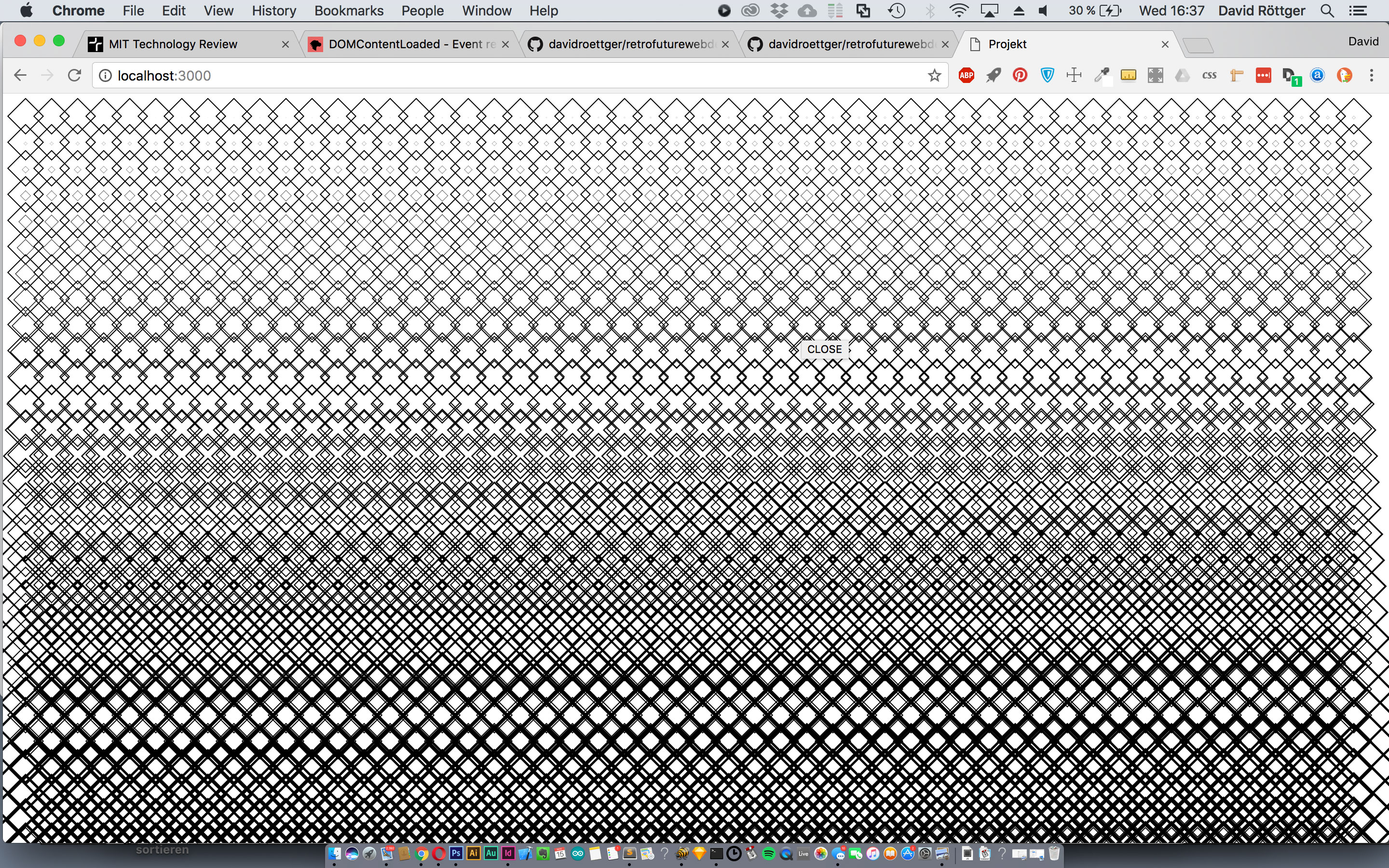
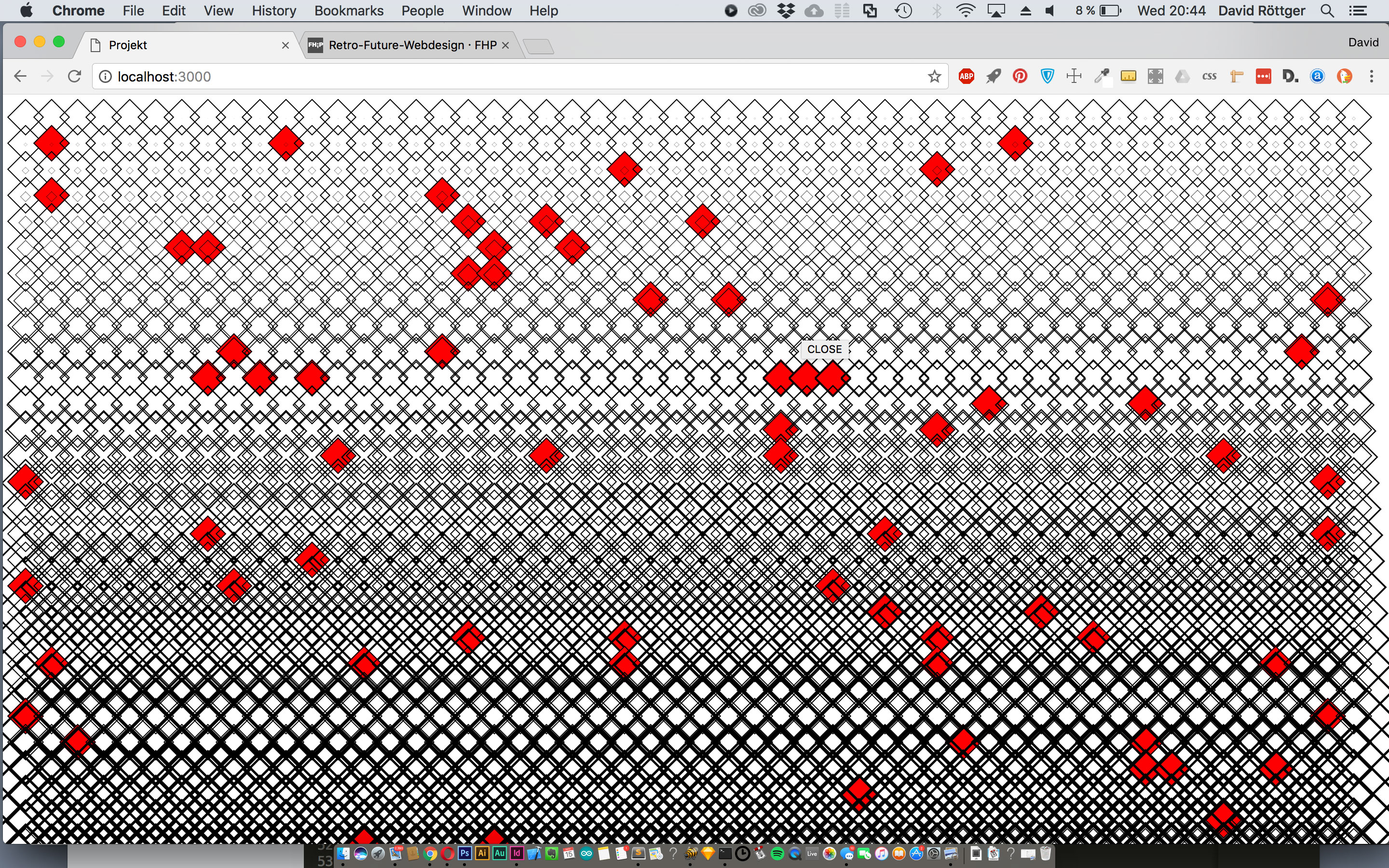
colored random outerdivs integrated

diff --git a/scripts/index.js b/scripts/index.js
@@ -36,6 +36,25 @@ function Divs(idofdiv,numberofdivs)  {
       selector.style.transform = "rotate(45deg)" 
     }
   }
+  
+  //pick random outer divs and change class for coloration 
+  this.pickandcolorclass = function () {
+
+    
+    for (var i = 0; i < numberofdivs/25; i++) {
+      var randomnumber = Math.round(getRandomArbitrary(1,numberofdivs)); 
+      var selector = document.querySelector(".outerlayer_"+randomnumber);
+      selector.classList.add("colored");
+    }
+  }
+
+}
+
+
+// Funktion für Random Numbers (Coloration)
+
+function getRandomArbitrary(min, max) {
+  return Math.random() * (max - min) + min;
 }
 
 // Initialize new Divs Object
@@ -48,6 +67,7 @@ console.log(divs.idofdiv);
 divs.creatediv();
 divs.scaleClasses();
 divs.scaleOuterDivs();
+divs.pickandcolorclass();
 
 
 

diff --git a/styles/index.scss b/styles/index.scss
@@ -39,6 +39,9 @@ $border-width: 4px;
 	transition: transform 0.2s ease-out;
 }
 
+.colored {
+	background-color:red;
+}
 
 .move {
 	transform: translate3d(-1px,-1px,0);
